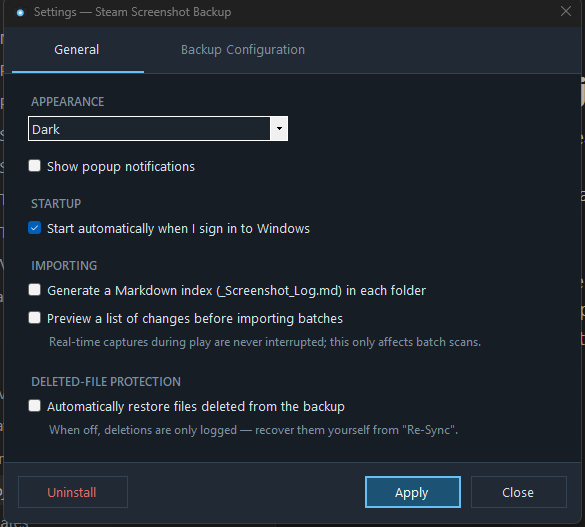
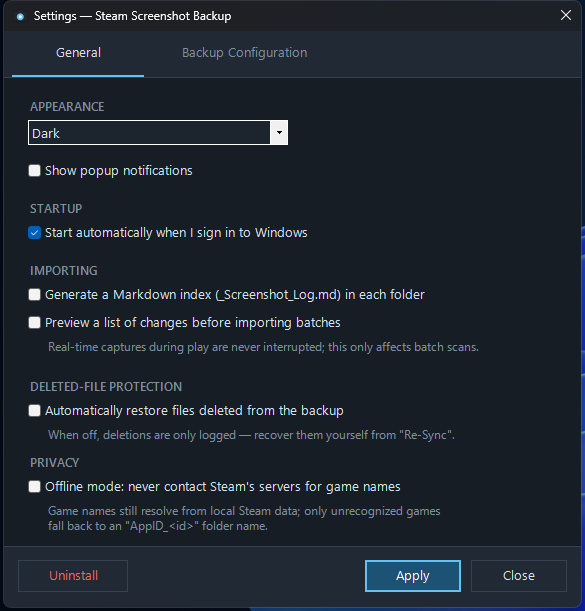
Document Offline Mode in README, regenerate settings/installer screenshots
Mentions the new Offline mode toggle and the offline-only portable download
in the feature list, installation steps, and the two FAQ answers that
previously said there was no way to disable Steam store lookups. Also
regenerates docs/img/settings-general.png (new Privacy section) and
docs/img/installer.png (new task checkbox; also fixes a stale "version
3.4.0" wizard title left over from an old capture).

diff --git a/README.md b/README.md
@@ -99,6 +99,9 @@ Steam Screenshots/
   it's safely backed up, recoverable from the Recycle Bin.
 - **Network-drive friendly.** If the destination becomes unreachable, the app
   waits and retries automatically, then catches up once it's back.
+- **Offline mode.** Skip Steam's store lookups entirely (a Settings toggle or
+  an installer checkbox), or download the dedicated offline-only portable
+  build with that code removed completely.
 - **Dark and light themes**, or follow the Windows setting.
 - **Statistics**: total games, screenshots, and data, plus per-session counters.
 
@@ -112,9 +115,9 @@ Steam Screenshots/
    [latest release](../../releases/latest).
 2. Run it. Pick an install folder (defaults to Program Files) and choose whether
    to start with Windows, add Start Menu / Desktop shortcuts, turn off popup
-   notifications, preview batches before importing, and (optionally, and flagged as
-   dangerous) delete originals after import. The main window opens automatically
-   when setup finishes.
+   notifications, enable offline mode, preview batches before importing, and
+   (optionally, and flagged as dangerous) delete originals after import. The
+   main window opens automatically when setup finishes.
 3. On first launch, choose your backup folder and which screenshot types to back
    up. That's the entire setup.
 
@@ -134,6 +137,11 @@ Prefer zero-install? Download `SteamScreenshotBackup.exe` (portable) from the
 release, put it anywhere, and run it. Identical functionality; the in-app
 Uninstall option cleans up after itself.
 
+A separate **offline-only** portable build, `SteamScreenshotBackup-Offline.exe`,
+is also available on the same release - identical, but with the Steam
+store name-lookup code removed entirely, for anyone who wants that guarantee
+at the binary level rather than a runtime setting.
+
 > **Windows SmartScreen:** the exe is unsigned, so the first run may show
 > *"Windows protected your PC."* Click **More info → Run anyway**, or build from
 > source (below) if you'd rather not trust a downloaded binary.
@@ -150,10 +158,10 @@ Uninstall option cleans up after itself.
 - **Re-Sync** reviews everything in Steam that's missing from your backup,
   grouped by game, so you can restore just what you pick.
 - **Settings** has two tabs: *General* (theme, notifications, startup, the
-  Markdown index) and *Backup Configuration* (folder, screenshot types,
-  layout, and the danger zone). **Apply** saves in the background without
-  closing the window, so you can keep adjusting settings; **Close** just
-  closes it.
+  Markdown index, offline mode) and *Backup Configuration* (folder, screenshot
+  types, layout, and the danger zone). **Apply** saves in the background
+  without closing the window, so you can keep adjusting settings; **Close**
+  just closes it.
 - **Game Names** fixes delisted or non-Steam games by hand, or opens the
   tracking file directly. Folders it couldn't name on its own are highlighted
   at the top of the list; select one and click **Open Folder** to see the
@@ -222,7 +230,7 @@ Requires the .NET 8 SDK (`winget install Microsoft.DotNet.SDK.8`); the installer
 additionally needs Inno Setup 6 (`winget install JRSoftware.InnoSetup`):
 
 ```powershell
-.\build.ps1     # produces dist\portable and dist\installer
+.\build.ps1     # produces dist\portable, dist\portable-offline, and dist\installer
 ```
 
 For a quick development run: `dotnet run` inside `app\`.
@@ -261,8 +269,11 @@ delete from them if you turn that on. Specifics:
   known locally (installed-game manifests, the existing cache), and
   periodically re-checked in the background for names already resolved this
   way. Only the app ID is sent, never screenshot data, filenames, or anything
-  else; there's no telemetry and no account of any kind. There's currently no
-  setting to disable these lookups.
+  else; there's no telemetry and no account of any kind. Turn on **Offline
+  mode** (Settings → General, or an installer checkbox) to skip these lookups
+  entirely - unresolved games just get an `AppID_<id>` folder name instead,
+  or download the dedicated offline-only portable build with that code
+  removed completely.
 - The source is all here, so anything about how it handles your files can be
   checked directly instead of taken on faith.
 
@@ -291,8 +302,10 @@ data, ever - see [What it does with your files](#what-it-does-with-your-files).
 The app does automatically make read-only network calls to the Steam store to
 resolve an app ID into a game name (only when it can't be found locally, plus
 a periodic background re-check of names resolved this way) - only the numeric
-app ID is sent, nothing else, and there's currently no setting to turn this
-off. No telemetry, no account, no analytics of any kind.
+app ID is sent, nothing else. Turn on **Offline mode** in Settings (or during
+install) to disable these lookups entirely, or use the offline-only portable
+build, which has that code removed at compile time. No telemetry, no account,
+no analytics of any kind.
 
 **Can it delete my screenshots?** Only if you turn on *Delete originals after
 import*, which is off by default and marked as dangerous. Even then, deletions